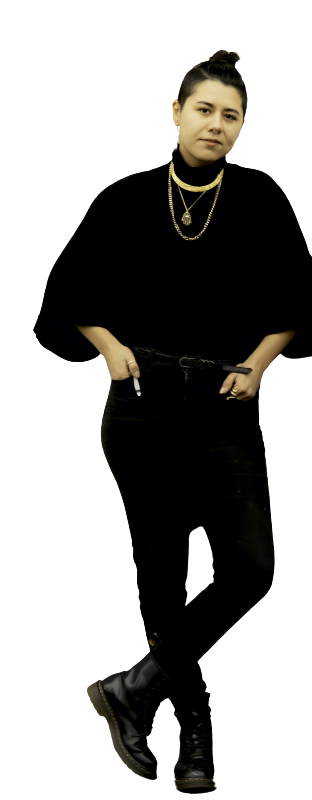
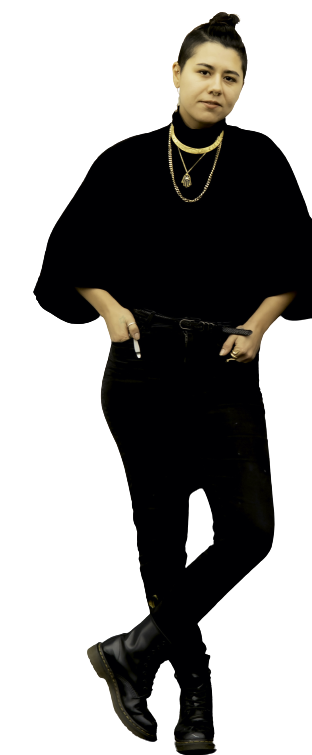
Cropping me.png to align with text better

diff --git a/src/pages/Home.js b/src/pages/Home.js
@@ -131,7 +131,7 @@ function Home() {
                   <div className="card body" id="contactCard">
                     <form id="mail">
                       <div className="form-group">
-                        <label for="msgInput">Don't Be Shy, Say Hi! Fill out the text box to send me an email.</label>
+                        <label for="msgInput">Don't Be Shy, Say Hi! Fill out the text box below to send me an email.</label>
                         <textarea type="text" class="form-control" id="msgInput" rows="5"></textarea>
                       </div>
                       <br/>
